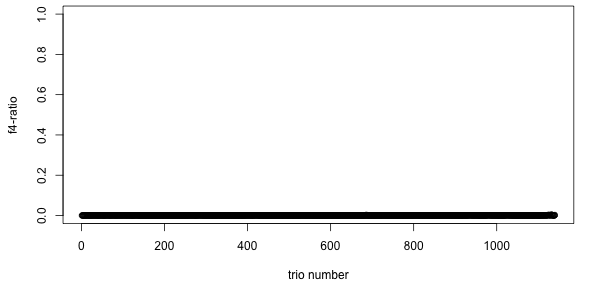
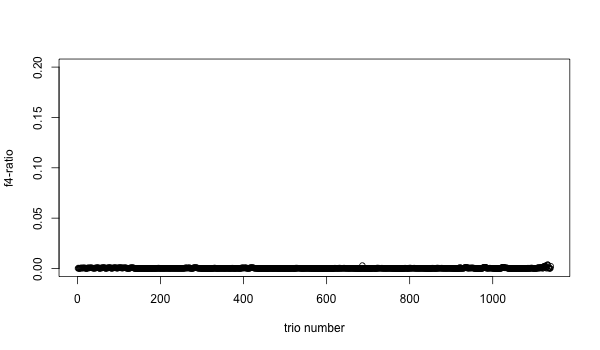
gf stats

Changed region(s): [[0.0, 0.0, 0.96, 0.8758], [0.48, 0.906, 0.6, 0.9664]]

diff --git a/analysis_of_introgression_with_snp_data/README.md b/analysis_of_introgression_with_snp_data/README.md
@@ -258,8 +258,8 @@ diff species_sets_no_geneflow_Dmin.txt species_sets_no_geneflow_no_geneflow_tree
 Next, let's look at the results in more detail, for example in [R](https://www.r-project.org). We load the `_BBAA.txt` file and first look at the distribution of D values:  
 
 ```R
-D_BBAA <- read.table("species_sets_no_geneflow_BBAA.txt",as.is=T,header=T)
-plot(D_BBAA$Dstatistic, ylab="D",xlab="trio number")
+D_BBAA_noGF <- read.table("species_sets_no_geneflow_BBAA.txt",as.is=T,header=T)
+plot(D_BBAA_noGF$Dstatistic, ylab="D",xlab="trio number")
 ```
 
 <p align="center"><img src="img/no_geneflow_Dvals.png" alt="DstatNoGF\*" width="600"></p>
@@ -267,7 +267,7 @@ plot(D_BBAA$Dstatistic, ylab="D",xlab="trio number")
 There are some very high D statistics. In fact, the D statistics for 9 trios are &gt;0.7, which is extremely high. So how is this possible in a dataset simulated with no geneflow?
 
 ```R
-D_BBAA[which(D_BBAA$Dstatistic > 0.7),]
+D_BBAA_noGF[which(D_BBAA_noGF$Dstatistic > 0.7),]
      P1  P2  P3 Dstatistic Z.score    p.value    f4.ratio   BBAA ABBA BABA
 171 S18 S19 S00   1.000000 0.00000        NaN 7.42372e-06 179922  1.5    0
 324 S18 S19 S01   1.000000 0.00000        NaN 7.42743e-06 179814  1.5    0
@@ -282,14 +282,14 @@ D_BBAA[which(D_BBAA$Dstatistic > 0.7),]
 These nine cases arise because there is amost no incomplete lineage sorting among these trios almost all sites are `BBAA` - e.g. 179922 sites for the first trio, while the count for `ABBA` is only 1.5 and for `BABA` it is 0 . The D statistic is calculated as D = (ABBA-BABA)/(ABBA+BABA), which for the first trio would be D = (1.5-0)/(1.5+0)=1. So, the lesson here is that the D statistic is very sensitive to random fluctuations when there is a small number of ABBA and BABA sites. One certainly cannot take the D value seriously unless it is supported by a statistical test suggesting that the D is significanly different from 0. In the most extreme cases above, the p-value could not even be calculated, becuase there were so few sites. Those definitely do not represent geneflow. But in one case we see a p value of 0.0018. Well, that looks significant, if one considers for example the traditional 0.05 cutoff. So, again, how is this possible in a dataset simulated with no geneflow?
 
 ```R
-plot(D_BBAA$p.value, ylab="p value",xlab="trio number",ylim=c(0,0.05))
+plot(D_BBAA_noGF$p.value, ylab="p value",xlab="trio number",ylim=c(0,0.05))
 ```
 <p align="center"><img src="img/no_geneflow_Pvals.png" alt="DstatNoGF-Pvals\*" width="600"></p>
 
 In fact, there are many p values that are &lt;0.05. For those who have a good understanding of statistics this will be not be suprising. This is because [p values are uniformly distributed](https://neuroneurotic.net/2018/10/29/p-values-are-uniformly-distributed-when-the-null-hypothesis-is-true/) when the null hypopthesis is true. Therefore, we expect 5% of the (or 1 in 20) p-values, they will be &lt;0.05. If we did a 1140 tests, we can expect 57 of them to be &lt;0.05. Therefore, any time we conduct a large amount of statistical tests, we should apply a multiple testing correction - commonly used is the Benjamini-Hochberg (BH) correction which controls for the [false discovery rate](https://en.wikipedia.org/wiki/False_discovery_rate).
 
 ```R
-plot(p.adjust(D_BBAA$p.value,method="BH"), ylab="p value",xlab="trio number",ylim=c(0,0.05))
+plot(p.adjust(D_BBAA_noGF$p.value,method="BH"), ylab="p value",xlab="trio number",ylim=c(0,0.05))
 ```
 <p align="center"><img src="img/no_geneflow_correctedPvals.png" alt="DstatNoGF-PvalsCorrected\*" width="600"></p>
 
@@ -298,7 +298,7 @@ However, even after applying the BH correction there are three p-values which lo
 Therefore, we should also plot the f4-ratio, which estimates the proportion of genome affected by geneflow. It turns out that this is perhaps the most reliable - all the f4-ratio values are tiny, as they should be for a dataset without geneflow.  
 
 ```R
-plot(D_BBAA$f4.ratio, ylab="f4-ratio",xlab="trio number", ylim=c(0,1))
+plot(D_BBAA_noGF$f4.ratio, ylab="f4-ratio",xlab="trio number", ylim=c(0,1))
 ```
 <p align="center"><img src="img/no_geneflow_f4-ratios.png" alt="DstatF4ratio\*" width="600"></p>
 
@@ -351,6 +351,24 @@ draw.triple.venn(length(D_BBAA$P123),length(D_Dmin$P123),length(D_tree$P123),len
 ```
 
 <p align="center"><img src="img/trippleVenn.png" alt="trippleVenn\*" width="600"></p>
+
+Then we explore the results in the `_BBAA.txt` in R, analogously to how we did it above for the no-geneflow case:
+
+```R
+plot(D_BBAA$Dstatistic, ylab="D",xlab="trio number") # The D statistic
+plot(p.adjust(D_BBAA$p.value,method="BH"), ylab="corected p value",xlab="trio number",ylim=c(0,0.05))
+plot(D_BBAA$f4.ratio, ylab="f4-ratio",xlab="trio number", ylim=c(0,0.2))
+```
+
+<details>
+<summary>Click here to see the resulting plots:</summary>
+
+<p align="center"><img src="img/geneflow_Dvals.png" alt="Dvals\*" width="600"></p>
+<p align="center"><img src="img/geneflow_correctedPvals.png" alt="pvals\*" width="600"></p>
+<p align="center"><img src="img/geneflow_f4-ratios.png" alt="f4\*" width="600"></p>
+
+</details>
+
 
 
 
